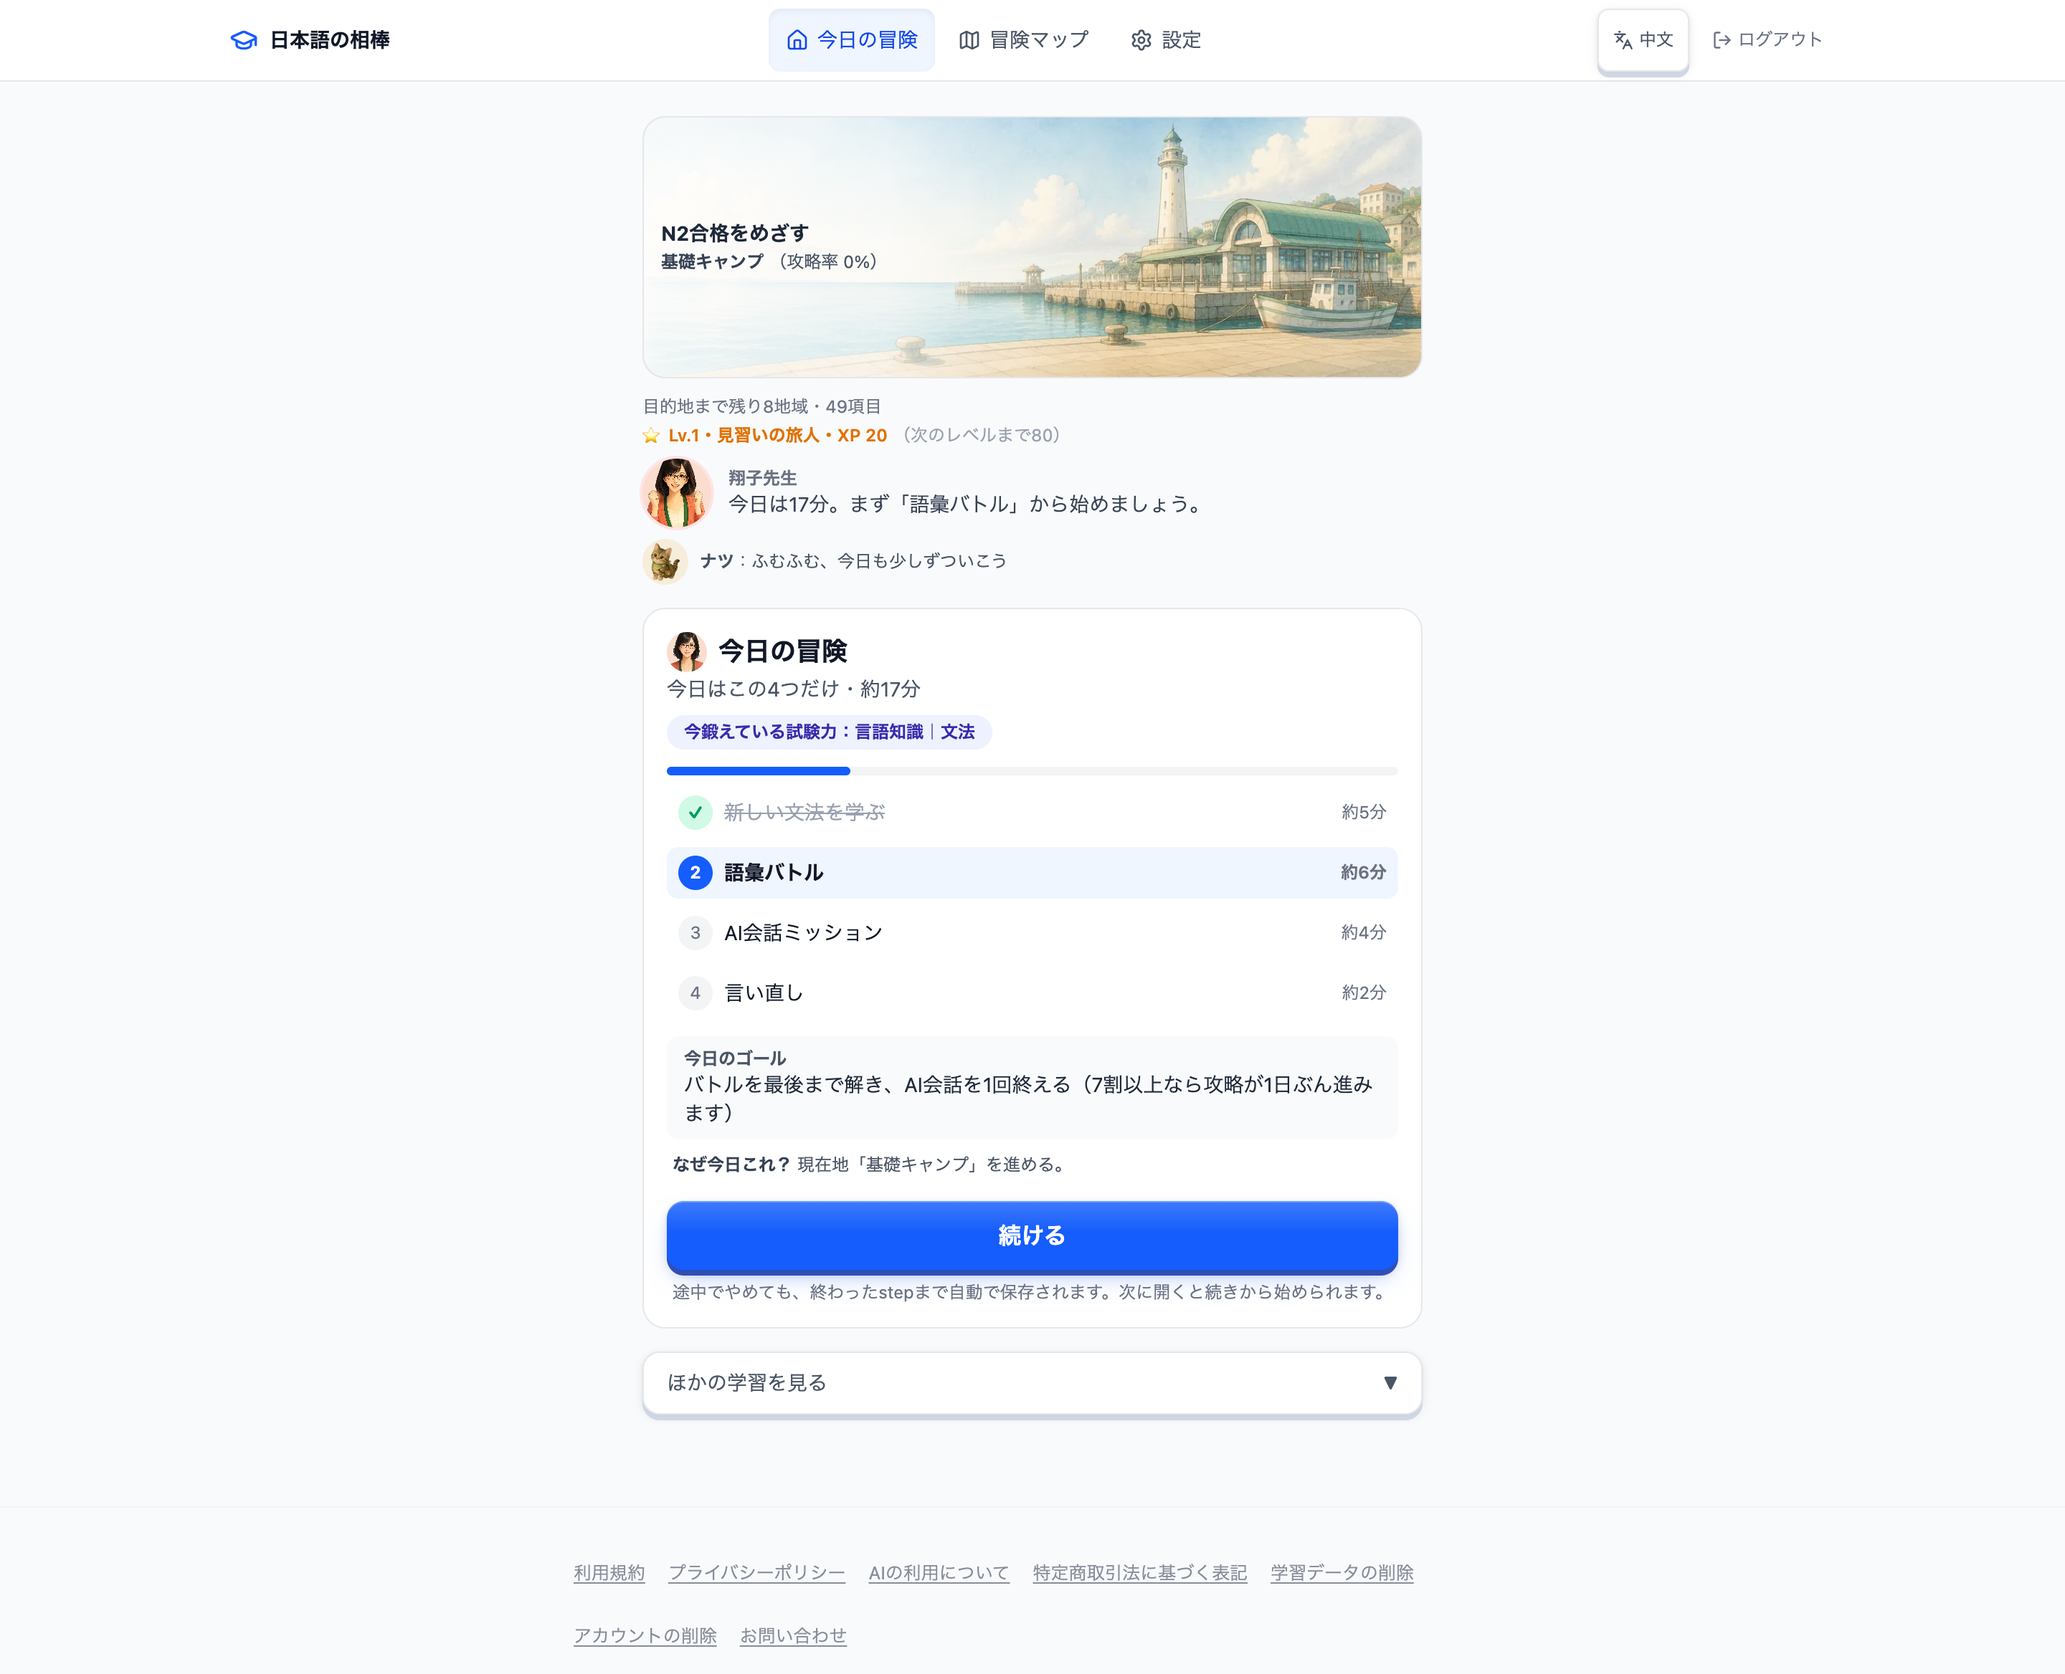
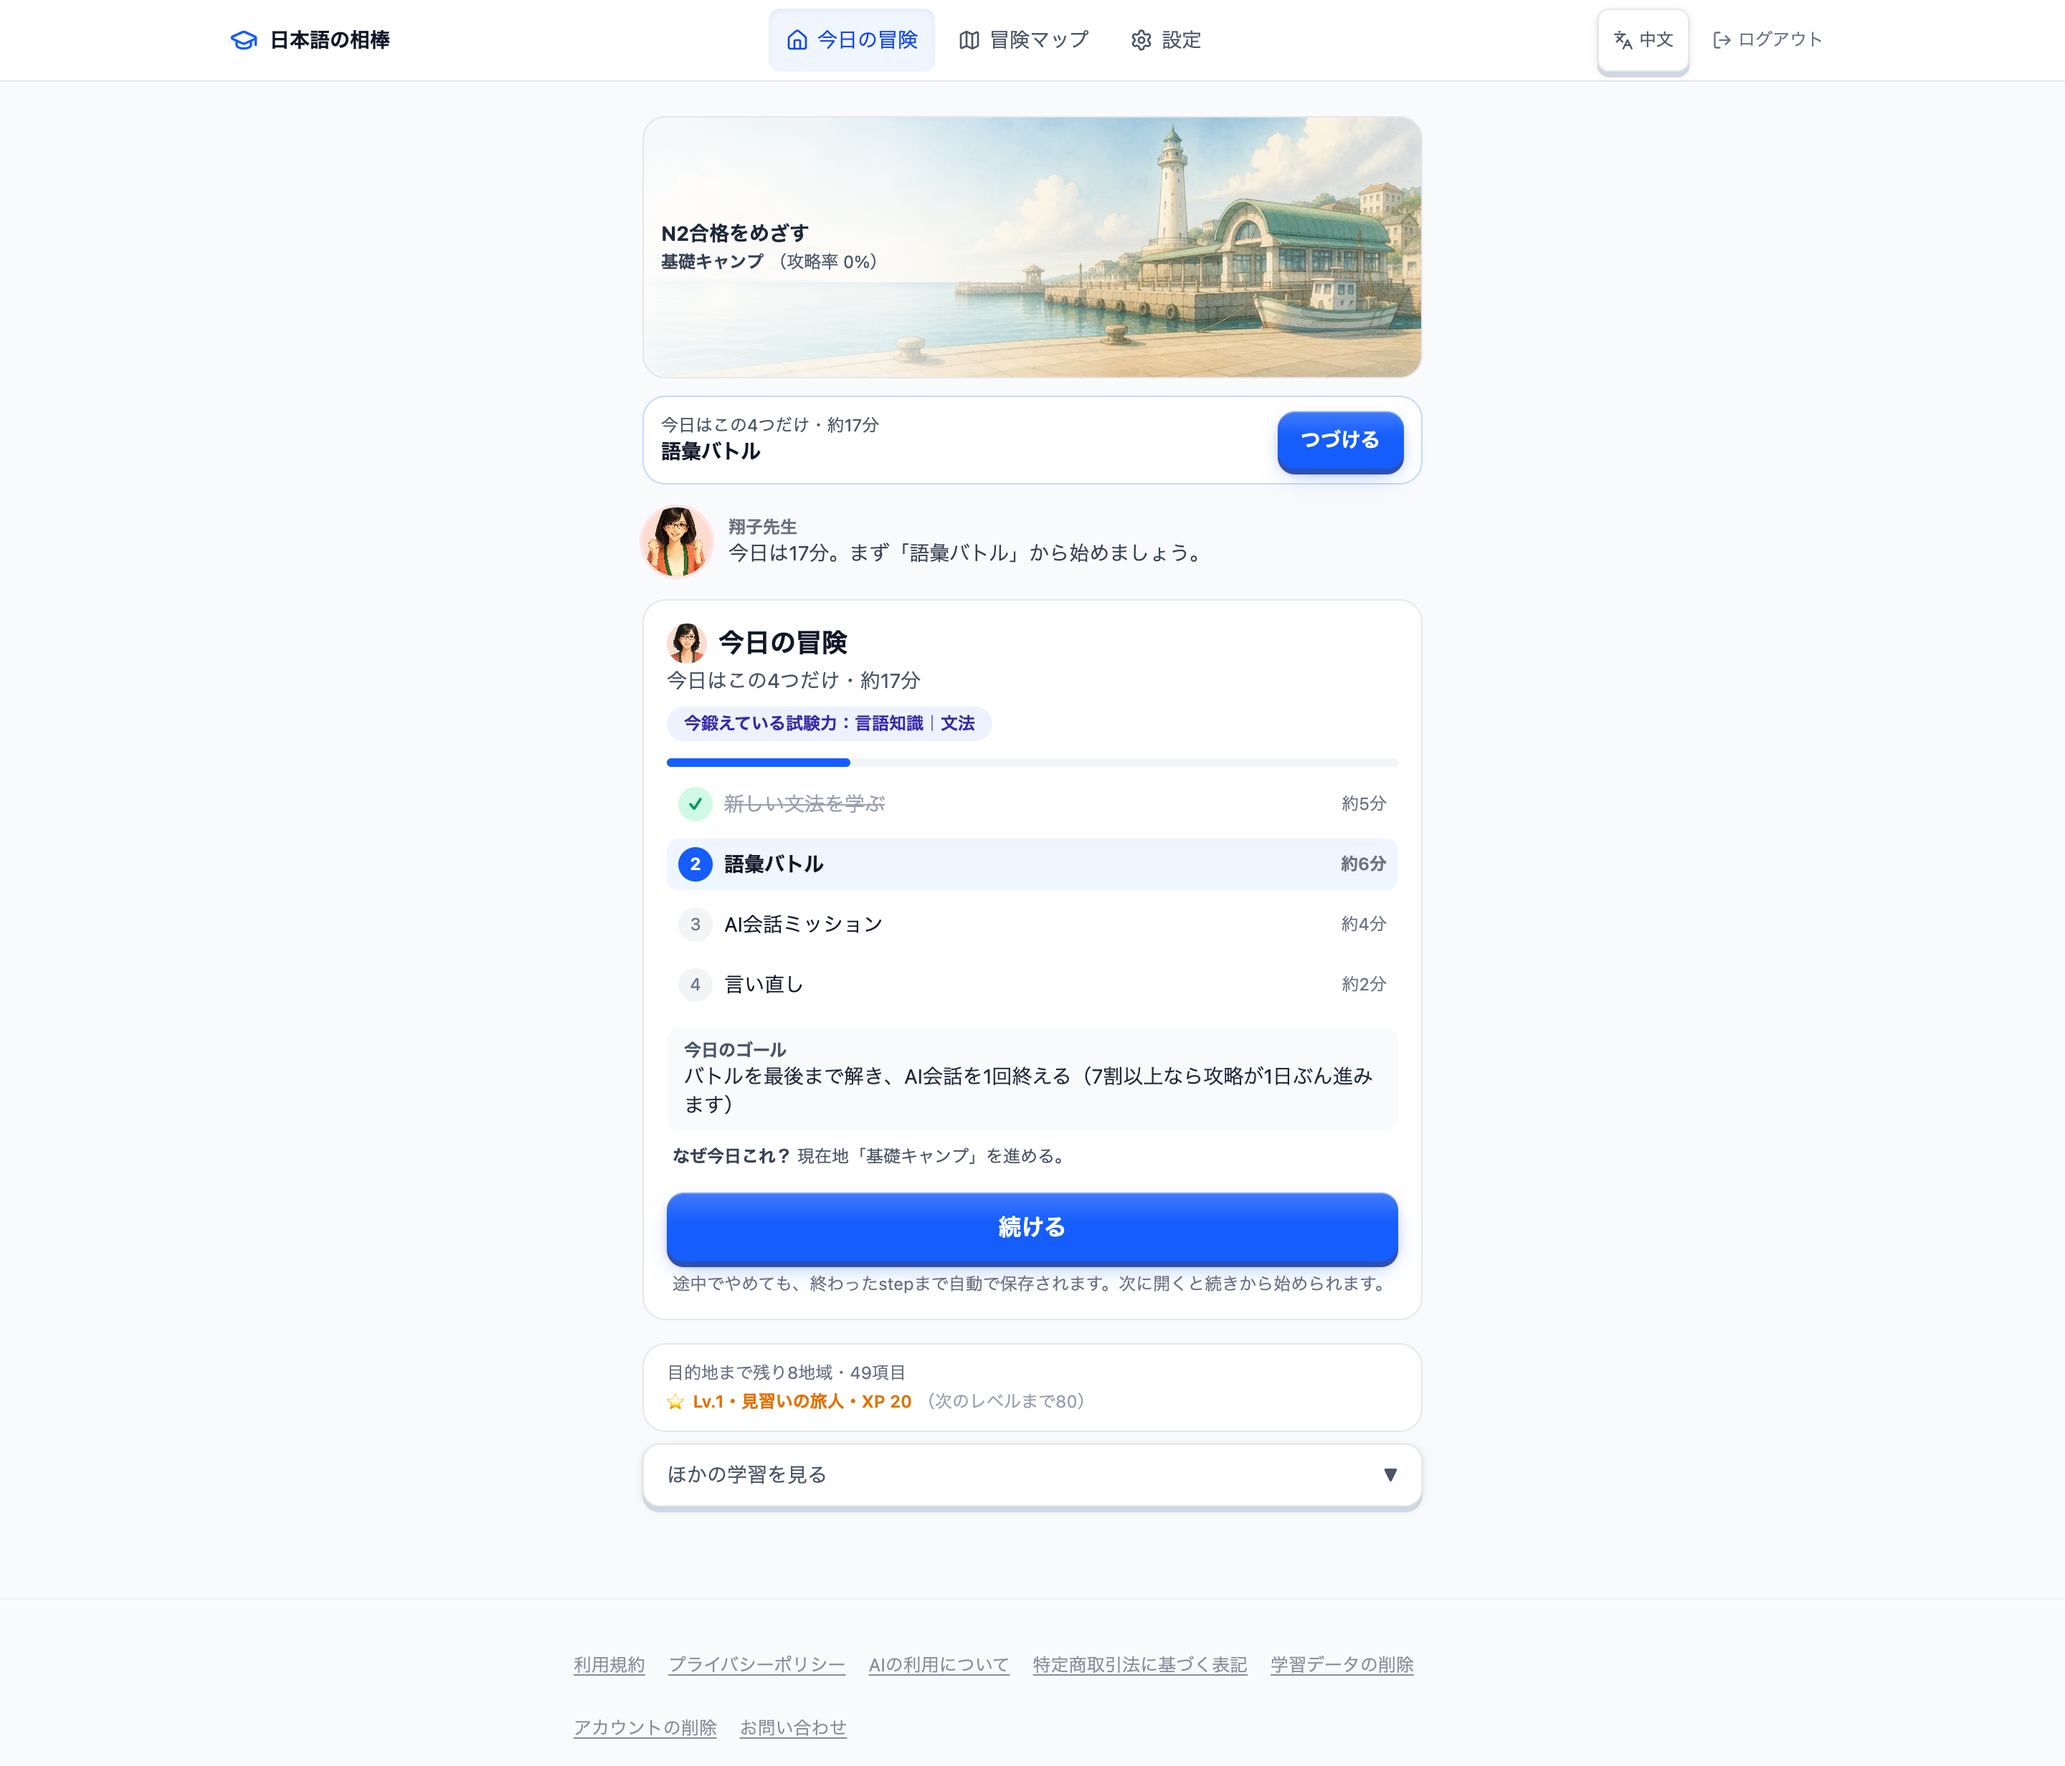
feat(design): ホーム画面v2（今日の街のヒーロー帯＋1画面目で押せるCTA）。既定は現行のまま
冒険マップに続く第2フェーズ。毎日ひらく画面に**世界が無く**、始めるまでにスクロールが
必要だった（実測: 375px で主CTAが y≈821・画面の外）。

- ChatGPT で 8街のヒーロー帯（3:1）を生成。2案を比較して Direction B（接近した視点）を採用。
  スマホ幅125pxでは A案（俯瞰・情報量多）が潰れ、B案が読めたため
- 帯の**左45%・下30%は空ける**構図で発注し、目標と現在地はその上に HTML で重ねる
  （絵に文字を焼き込まない）
- 帯のすぐ下に「今日はこの4つだけ／次の1手／はじめる」を置き、**1画面目で押せる**ように
- 全体の数字（残り地域・項目・Lv・XP）はカードの下へ。相棒の相づち1行は v2 では出さない
  （先生の一文と同じことを3回言っていた）
- 素材は1画面につき1枚だけ読む（2x 33〜72KB）。8枚あわせても 432KB
- `?home=v2` で表示。**既定は v1（現行）**。画像が404なら帯だけ消えて画面は成立する

ついでに: vocabContent.test.ts の重い生成を beforeAll へ寄せた（30秒制限に張り付いて
並列実行で時々タイムアウトしていた。中身の失敗ではない）

diff --git a/src/lib/aiLesson/course/adventure/advHomeVariant.test.ts b/src/lib/aiLesson/course/adventure/advHomeVariant.test.ts
@@ -1,0 +1,79 @@
+// ホームの表示方式フラグと素材の受入テスト（2026-08-22・第2フェーズ）。
+//
+// 守るのは4つ:
+//   ① 既定は v1（現行）。CEO確認前に既定を変えない
+//   ② ?home=v2 で v2、?home=v1 で戻せる、?home=reset で保存が消える
+//   ③ storage が壊れていても落ちない（private mode）
+//   ④ ヒーロー帯は**用意できている街だけ**返す（無い街に「絵があるふり」をしない）
+import { describe, it, expect } from 'vitest';
+import {
+  resolveHomeVariant, DEFAULT_HOME_VARIANT, HOME_VARIANT_STORAGE_KEY,
+} from './advHomeVariant';
+import { heroForArea, HOME_HEROES, HERO_ID_BY_AREA } from './advHomeAssets';
+
+const mem = () => {
+  const m = new Map<string, string>();
+  return {
+    getItem: (k: string) => m.get(k) ?? null,
+    setItem: (k: string, v: string) => { m.set(k, v); },
+    removeItem: (k: string) => { m.delete(k); },
+    dump: () => Object.fromEntries(m),
+  };
+};
+
+describe('ホームの表示方式フラグ', () => {
+  it('① 何も無ければ既定 v1', () => {
+    expect(DEFAULT_HOME_VARIANT).toBe('v1');
+    expect(resolveHomeVariant()).toBe('v1');
+    expect(resolveHomeVariant({ search: '?home=bogus', storage: mem() })).toBe('v1');
+  });
+
+  it('② ?home=v2 で v2 になり保存される。?home=v1 で戻り、?home=reset で保存が消える', () => {
+    const s = mem();
+    expect(resolveHomeVariant({ search: '?home=v2', storage: s })).toBe('v2');
+    expect(s.dump()).toEqual({ [HOME_VARIANT_STORAGE_KEY]: 'v2' });
+    expect(resolveHomeVariant({ search: '', storage: s })).toBe('v2');
+    expect(resolveHomeVariant({ search: '?home=v1', storage: s })).toBe('v1');
+    expect(resolveHomeVariant({ search: '?home=reset', storage: s })).toBe('v1');
+    expect(s.dump()).toEqual({});
+  });
+
+  it('③ storage が投げても落ちない', () => {
+    const broken = {
+      getItem: () => { throw new Error('nope'); },
+      setItem: () => { throw new Error('nope'); },
+      removeItem: () => { throw new Error('nope'); },
+    };
+    expect(resolveHomeVariant({ search: '?home=v2', storage: broken })).toBe('v2');
+    expect(resolveHomeVariant({ search: '', storage: broken })).toBe('v1');
+  });
+});
+
+describe('ヒーロー帯の素材', () => {
+  it('④ 用意できている街だけ返す。知らない areaId は null', () => {
+    expect(heroForArea('area01-minato')).not.toBeNull();
+    expect(heroForArea('area08-sorano')).not.toBeNull();
+    expect(heroForArea('area99-unknown')).toBeNull();
+    expect(heroForArea(null)).toBeNull();
+    expect(heroForArea(undefined)).toBeNull();
+  });
+
+  it('地図の全エリアに行き先がある（対応表に穴が無い）', () => {
+    // 会話の港・記憶の庭は近い景色で受ける。ここが欠けると帯が出ない日ができる
+    for (const areaId of ['area01-minato', 'area02-hinode', 'area03-toorimichi', 'area04-ichiba',
+      'area05-yukari', 'area06-hataraki', 'area07-katachi', 'area08-sorano',
+      'area09-katari', 'area10-omoide']) {
+      const id = HERO_ID_BY_AREA[areaId];
+      expect(id, `${areaId} の対応が無い`).toBeTruthy();
+      expect(HOME_HEROES[id], `${areaId} → ${id} の素材が無い`).toBeTruthy();
+    }
+  });
+
+  it('寸法は 3:1（帯の高さが崩れない）', () => {
+    for (const [id, a] of Object.entries(HOME_HEROES)) {
+      expect(a.width / a.height, `${id}`).toBeCloseTo(3, 2);
+      expect(a.webp1x).toMatch(/^\/ai-course\/home\/hero-.+@1x\.webp$/);
+      expect(a.webp2x).toMatch(/^\/ai-course\/home\/hero-.+@2x\.webp$/);
+    }
+  });
+});

diff --git a/src/components/ai-course/adventure/AdvShell.tsx b/src/components/ai-course/adventure/AdvShell.tsx
@@ -2674,7 +2674,8 @@ export default function AdvShell(props: AdvShellProps) {
         </p>
       )}
 
-      {/* 案内の先生の一文（次の行動を言う）。7画面すべてで同じ先生に揃える */}
+      {/* 案内の先生の一文（次の行動を言う）。7画面すべてで同じ先生に揃える。
+          v2 は相棒の相づち（内容ゼロの1行）を出さない＝同じことを3回言わない */}
       <div className="mt-2 mb-4 flex items-center gap-3">
         <TeacherAvatar size={48} expression="smile" lang={lang}
           className={`shrink-0 ring-2 ${teacher.ringClass}`} />
@@ -2699,7 +2700,7 @@ export default function AdvShell(props: AdvShellProps) {
       </div>
       {/* 旅の相棒の声掛け（§8）。オンボーディングの「応援のしかたが少し変わります」をここで果たす。
           復習が残っている日は毎日同文のgreetでなく「復習の知らせ役」になる（状況対応・CEO要望 2026-08-14） */}
-      {prof.companionId && (
+      {prof.companionId && !(homeVariant === 'v2' && props.reviewsDue === 0) && (
         <div className="-mt-2 mb-4 flex items-center gap-2">
           <CompanionAvatar id={prof.companionId} size={32} />
           <p className="text-xs text-gray-600">
@@ -3145,6 +3146,35 @@ export default function AdvShell(props: AdvShellProps) {
                 {tx(lang, '今日のまとめをもう一度見る', '再看一次今天的小结')}
               </button>
             </div>
+          )}
+        </div>
+      )}
+
+      {/*
+        全体の状況（2026-08-22・ホームv2）。今日やることの**あと**に置く。
+        v1 では目標の下に6行の数字（残り地域・項目・週推定・Lv・XP・連続日数）が並び、
+        始める前に読ませていた。数字は消さずに順番だけ変える
+      */}
+      {homeVariant === 'v2' && (
+        <div className="mt-3 rounded-2xl border border-gray-200 bg-white px-4 py-3">
+          {pace && pace.remainingTargets > 0 && (
+            <p className="text-xs text-gray-500">
+              {tx(lang,
+                `目的地まで残り${pace.remainingStages}地域・${pace.remainingTargets}項目`,
+                `距离目的地还剩${pace.remainingStages}个地区・${pace.remainingTargets}个项目`)}
+              {pace.estWeeksLeft !== null && pace.estWeeksLeft > 0 && (
+                tx(lang, `／いまのペースだと約${pace.estWeeksLeft}週間（推定）`,
+                  `／按现在的节奏约需${pace.estWeeksLeft}周（推算）`)
+              )}
+            </p>
+          )}
+          {(prof.xp ?? 0) > 0 && (
+            <p className="mt-1 text-xs font-semibold text-amber-600">
+              ⭐ Lv.{levelOf(prof.xp ?? 0)}・{tx(lang, titleOf(levelOf(prof.xp ?? 0)).ja, titleOf(levelOf(prof.xp ?? 0)).zh)}・XP {prof.xp}
+              <span className="ml-1 font-normal text-gray-400">
+                {tx(lang, `（次のレベルまで${xpToNextLevel(prof.xp ?? 0)}）`, `（距下一级还差${xpToNextLevel(prof.xp ?? 0)}）`)}
+              </span>
+            </p>
           )}
         </div>
       )}

diff --git a/src/lib/aiLesson/course/adventure/vocab/vocabContent.test.ts b/src/lib/aiLesson/course/adventure/vocab/vocabContent.test.ts
@@ -6,7 +6,7 @@
 // - 正解が2つ以上／選択肢が重複する
 // - 日本語コンテンツに第三言語が混入する
 // - 中国語訳にかなが残る
-import { describe, it, expect } from 'vitest';
+import { describe, it, expect, beforeAll } from 'vitest';
 import { ALL_VOCAB_CONTENT } from './content/vocabContentBank';
 import { activeContent, VOCAB_ASPECTS, summarizeBatch, toSenseRecord } from './vocabContent';
 import { buildVocabQuestions, vocabPool, vocabQuestionCoverage } from './vocabQuestions';
@@ -120,6 +120,13 @@ describe('§6 語彙問題（選択式のみ）', () => {
     allCache = out;
     return out;
   };
+  /**
+   * 生成は beforeAll でまとめて済ませる（2026-08-22）。
+   * 各 it の中で初回だけ作っていたため、**最初の1本だけが 30 秒の制限に張り付き**、
+   * 並列実行の負荷で時々タイムアウトしていた（中身の失敗ではない）。
+   * 重い作業はフックへ寄せ、フックには十分な時間を渡す。
+   */
+  beforeAll(async () => { await allQuestions(); }, 180_000);
 
   it('**レビュー未了の語からは問題を作らない**', () => {
     const flagged = ALL_VOCAB_CONTENT.filter((c) => c.state !== 'active_beta');

diff --git a/src/lib/aiLesson/course/adventure/advHomeAssets.ts b/src/lib/aiLesson/course/adventure/advHomeAssets.ts
@@ -40,12 +40,21 @@ export const HERO_ID_BY_AREA: Record<string, string> = {
 };
 
 /** 用意できているヒーロー帯（増えたらここへ足す。無いものは出さない＝存在するふりをしない） */
+const hero = (id: string): HomeImageAsset => ({
+  webp1x: `/ai-course/home/hero-${id}@1x.webp`,
+  webp2x: `/ai-course/home/hero-${id}@2x.webp`,
+  width: 1152, height: 384,
+});
+
 export const HOME_HEROES: Record<string, HomeImageAsset> = {
-  minato: {
-    webp1x: '/ai-course/home/hero-minato@1x.webp',
-    webp2x: '/ai-course/home/hero-minato@2x.webp',
-    width: 1152, height: 384,
-  },
+  minato: hero('minato'),
+  hinode: hero('hinode'),
+  toorimichi: hero('toorimichi'),
+  ichiba: hero('ichiba'),
+  yukari: hero('yukari'),
+  hataraki: hero('hataraki'),
+  katachi: hero('katachi'),
+  sorano: hero('sorano'),
 };
 
 /** 現在地の areaId からヒーロー帯を引く。無ければ null（帯を出さない） */
